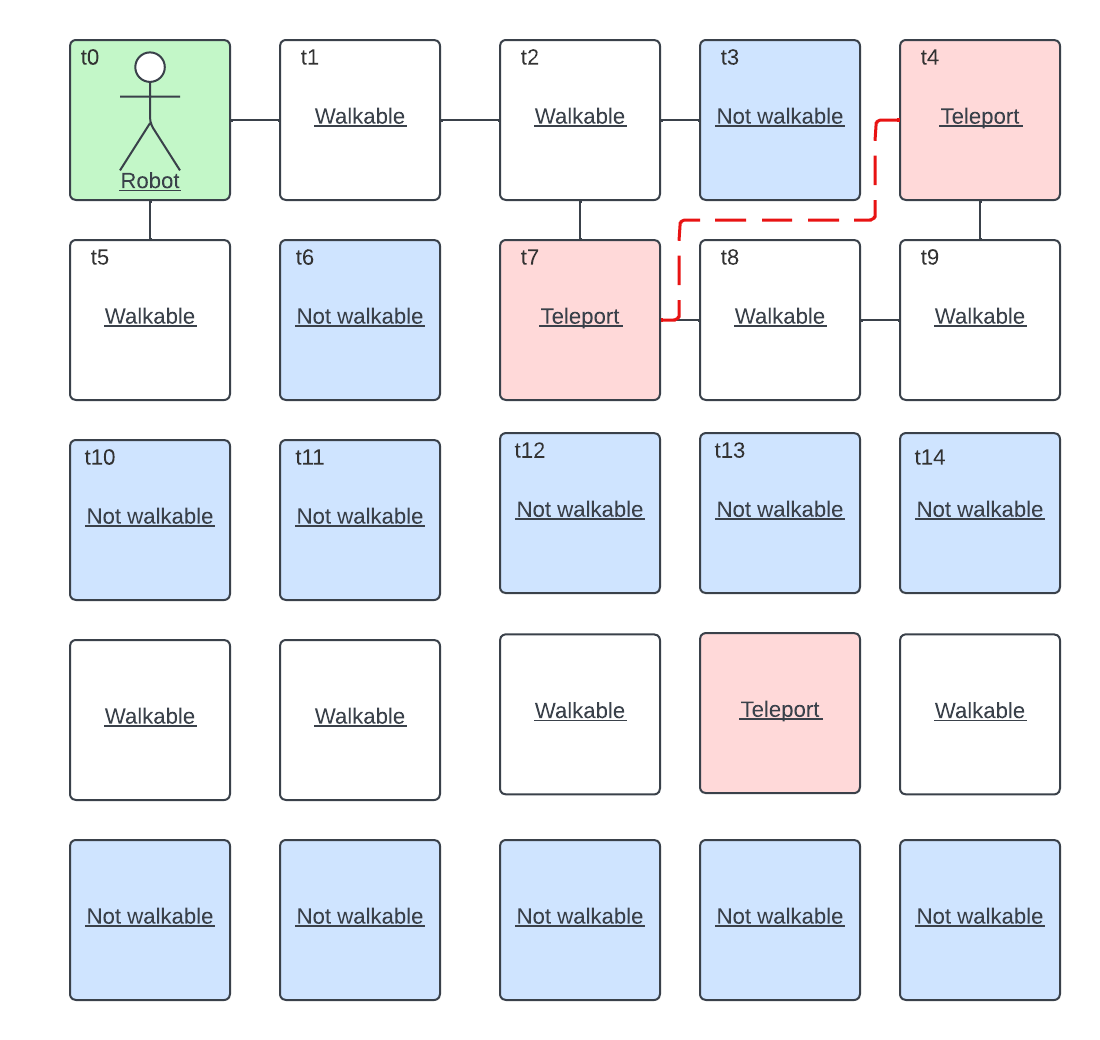
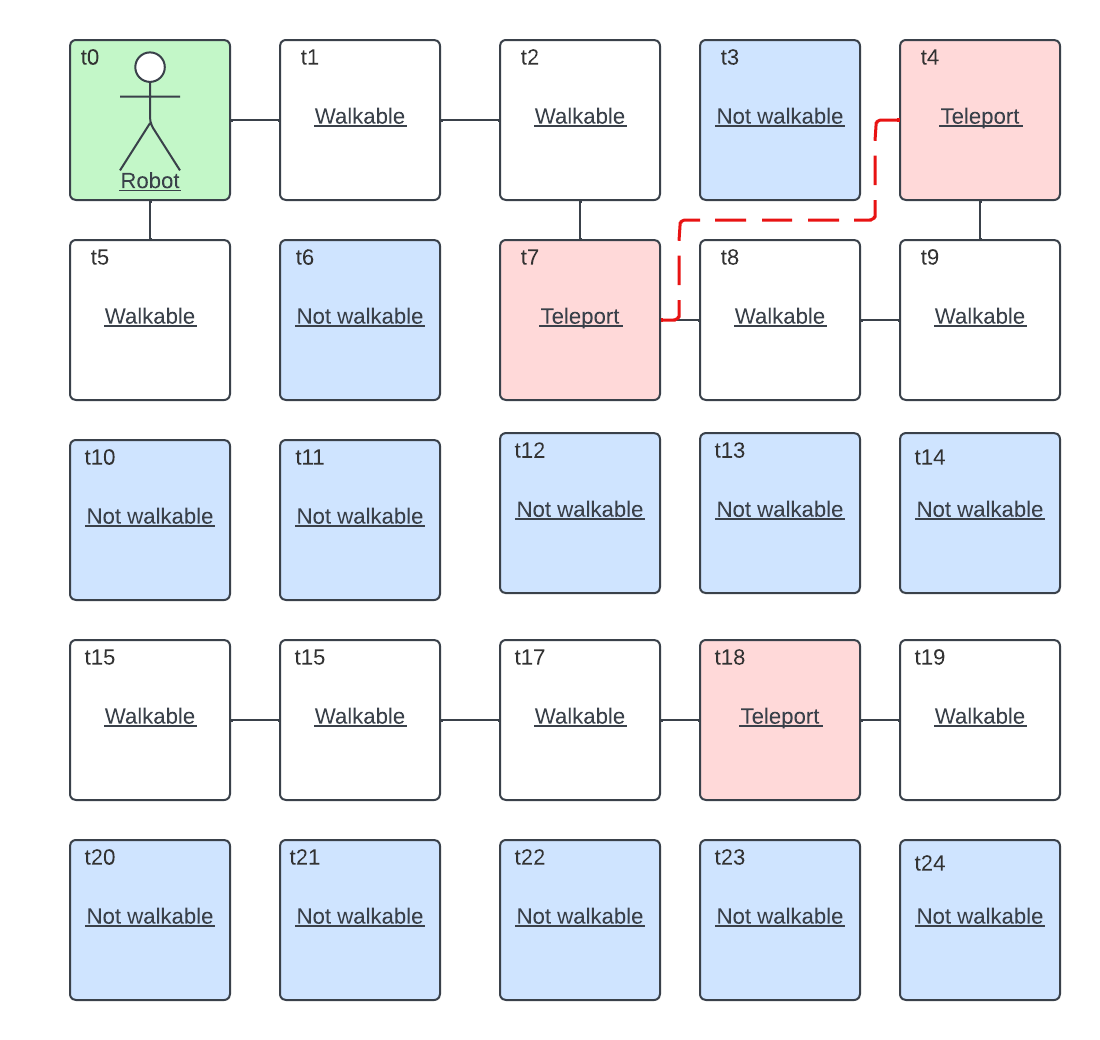
better draft, teleport needs fix

diff --git a/src/graph.rs b/src/graph.rs
@@ -1,23 +1,68 @@
 use std::collections::HashMap;
-use petgraph::graph::UnGraph;
+use petgraph::graph::{NodeIndex, UnGraph};
 use petgraph::{Graph, Undirected};
-use petgraph::adj::NodeIndex;
 use petgraph::algo::dijkstra;
 use petgraph::dot::{Config, Dot};
 use robotics_lib::world::coordinates::Coordinate;
 use robotics_lib::world::tile::{Content, Tile, TileType};
-
 /// Purpose of this function is to take as input an Option<Vec<Vec<Option<Tile>>>> (output of robot_map)
 /// and return a weighted graph of connected tiles (meaning tiles in which go_allowed() is true).
 ///
+
+
+struct PathFinder{
+    graph:Graph<(usize, usize), u32, Undirected>,
+    indexes: Vec<Vec<Option<NodeIndex>>>,
+}
 
 fn eval_weight(c1:(usize,usize), c2:(usize,usize))->u32{
     return 1;
 }
 
+fn adds_nodes(matrix:&Vec<Vec<Option<Tile>>>, dim:usize,indexes:&mut Vec<Vec<Option<NodeIndex>>>, graph: &mut UnGraph::<(usize,usize), u32>, teleports:&mut Vec<NodeIndex>){
+    // takes matrix as a reference of the robot map and the dimension of the map.
+    // creates a graph with the walkable seen nodes,
+    // changes the matrix of Nodeindexes of the pathfinder that will be used to retrieve graph Indexes
+    // add the teleports NodeIndexes
+    for i in  0..dim{
+        let mut row: Vec<Option<NodeIndex>> = Vec::with_capacity(dim);
+        for j in 0..dim{
+            match matrix[i][j].as_ref() {
+                // check if the robot discovered that Tile
+                None => {
+                    row.push(None);
+                }
+                Some(present_tile) => {
+                    // this checks if the robot walked over the tile or if he has
+                    // seen it.
+                    if !present_tile.tile_type.properties().walk(){
+                        // Since the vector contains also Tiles that the robot has seen
+                        // we have to check if the tile we are looking at is walkable or not
+                        // if not i don't need it in the graph but i still need in indexes
+                        // to keep the matrix dimxdim
+                        row.push(None);
+                        continue;
+                    }
 
-fn into_graph(robot_map: Option<Vec<Vec<Option<Tile>>>>) -> Graph<(usize, usize), u32, Undirected> {
-    let mut graph= UnGraph::<(usize,usize), u32>::new_undirected();
+                    let current_node=graph.add_node((i, j));
+                    if present_tile.tile_type == TileType::Teleport(true){
+                        teleports.push(current_node);
+                    }
+                    row.push(Some(current_node));
+                }
+            }
+        }
+        indexes.push(row);
+    }
+}
+
+
+fn into_graph(robot_map: &Option<Vec<Vec<Option<Tile>>>>) -> PathFinder {
+    let mut pathfinder = PathFinder{
+        graph: UnGraph::<(usize,usize), u32>::new_undirected(),
+        indexes: Vec::new(),
+    };
+
     let mut teleports= Vec::new();
 
     match robot_map {
@@ -28,60 +73,46 @@ fn into_graph(robot_map: Option<Vec<Vec<Option<Tile>>>>) -> Graph<(usize, usize)
 
             let dimension=vec.len(); //the world is a square
 
+            adds_nodes(&vec, dimension, &mut pathfinder.indexes, &mut pathfinder.graph, &mut teleports);
+            //println!("INDEXES: {:?}", pathfinder.indexes);
+            //println!("ORIGINAL: {:?}", vec);
+
+            // Add vertices
             for i in 0..dimension{
                 for j in 0..dimension{
 
                     // check if the robot discovered that Tile
-                    match vec[i][j].as_ref() {
+                    match pathfinder.indexes[i][j].as_ref() {
                         None => {}
                         Some(present_tile) => {
                             // this checks if the robot walked over the tile or if he has
-                            // seen it.
-
-                            if !present_tile.tile_type.properties().walk(){
-                                // Since the vector contains also Tiles that the robot has seen
-                                // we have to check if the tile we are looking at is walkable or not
-                                // if not i don't need it in the graph
-                                continue;
-                            }
-
-                            let current_node=graph.add_node((i, j));
-
-                            if present_tile.tile_type == TileType::Teleport(true){
-                                teleports.push(current_node);
-                            }
-
+                            // seen it. but it also checks the walkability, since, not walkable
+                            // nodes have not been added
 
                             // CHECK RIGHT NODE
                             if j!=dimension-1 { // border check
-                                match vec[i][j+1].as_ref(){
+                                match pathfinder.indexes[i][j+1].as_ref(){
                                     None => {}
                                     Some(next_tile) => {
                                         // this checks if the robot walked over the tile or if he has
                                         // seen it.
-                                        if !present_tile.tile_type.properties().walk(){
-                                            // Since the vector contains also Tiles that the robot has seen
-                                            // we have to check if the tile we are looking at is walkable or not
-                                            // if not i don't need it in the graph
-                                            continue;
-                                        }
-
-                                        let next_node=graph.add_node((i,j+1));
-                                        graph.add_edge(current_node,next_node,
+                                        pathfinder.graph.add_edge(*present_tile,
+                                                                  *next_tile,
                                                        eval_weight((i,j),(i,j+1)));
                                     }
                                 }
                             }
-
                             // CHECK NODE BELOW
                             if i!=dimension-1{ // bordere check
-                                match vec[i+1][j].as_ref(){
+                                match pathfinder.indexes[i+1][j].as_ref(){
                                     None => {}
                                     Some(next_tile) => {
-                                        // again if is Some then is walkable so i can add this node
-                                        // and create the edge
-                                        let next_node=graph.add_node((i+1,j));
-                                        graph.add_edge(current_node,next_node,
+                                        // this checks if the robot walked over the tile or if he has
+                                        // seen it. but it also checks the walkability, since, not walkable
+                                        // nodes have not been added
+
+                                        pathfinder.graph.add_edge(*present_tile,
+                                                                  *next_tile,
                                                        eval_weight((i,j),(i+1,j)));
                                     }
                                 }
@@ -95,13 +126,13 @@ fn into_graph(robot_map: Option<Vec<Vec<Option<Tile>>>>) -> Graph<(usize, usize)
 
     for (index,current_teleport) in teleports.iter().enumerate(){
         for i in index+1..teleports.len()-1{
-            let c1=graph.node_weight(*current_teleport).unwrap();
-            let c2=graph.node_weight(teleports[i+1]).unwrap();
-            graph.add_edge(*current_teleport,teleports[i+1], eval_weight(*c1,*c2));
+            let c1=pathfinder.graph.node_weight(*current_teleport).unwrap();
+            let c2=pathfinder.graph.node_weight(teleports[i+1]).unwrap();
+            pathfinder.graph.add_edge(*current_teleport,teleports[i+1], eval_weight(*c1,*c2));
         }
     }
 
-    graph
+    pathfinder
 
 }
 
@@ -179,9 +210,9 @@ fn test_into_graph_v1(){
 
     for i in 0..5{
         let mut row_vector= Vec::new();
-        for i in 0..5{
+        for j in 0..5{
             if i==2 || i==4{
-                row_vector.push(Some(not_walkable.clone())); //t10 -->t14
+                row_vector.push(Some(not_walkable.clone())); //t10 -->t14 && t20 -->t24
             }
             else{
                 row_vector.push(Some(walkable.clone()));
@@ -196,11 +227,13 @@ fn test_into_graph_v1(){
     set_tile_type!(robot_map, 1, 2, TileType::Teleport(true)); //t7
     set_tile_type!(robot_map, 3, 4, TileType::Teleport(true)); //t18
 
-    let graph=into_graph(Some(robot_map));
+    println!("Robot map: {:?}", robot_map);
 
-    let start_node=find_node_by_data(&graph, (0,0)).unwrap();
-    let target_node = find_node_by_data(&graph, (0,4)).unwrap();
-    let result= dijkstra(&graph, start_node, None, |e| *e.weight());
-    let cost=result.get(&target_node).unwrap_or(&1000);
-    println!("Il costo da (0,0) a (0,4) e': {:?}", cost);
+    let pathfinder=into_graph(&Some(robot_map));
+    println!("The converted graph is: {:?}", pathfinder.graph);
+
+    let result = dijkstra(&pathfinder.graph,pathfinder.indexes[0][0].unwrap(), pathfinder.indexes[0][4], |e| *e.weight());
+
+    let cost=result.get(&pathfinder.indexes[0][4].unwrap()).unwrap_or(&1000);
+    println!("The cost from (0,0) to (0,4) is: {:?}", cost);
 }
